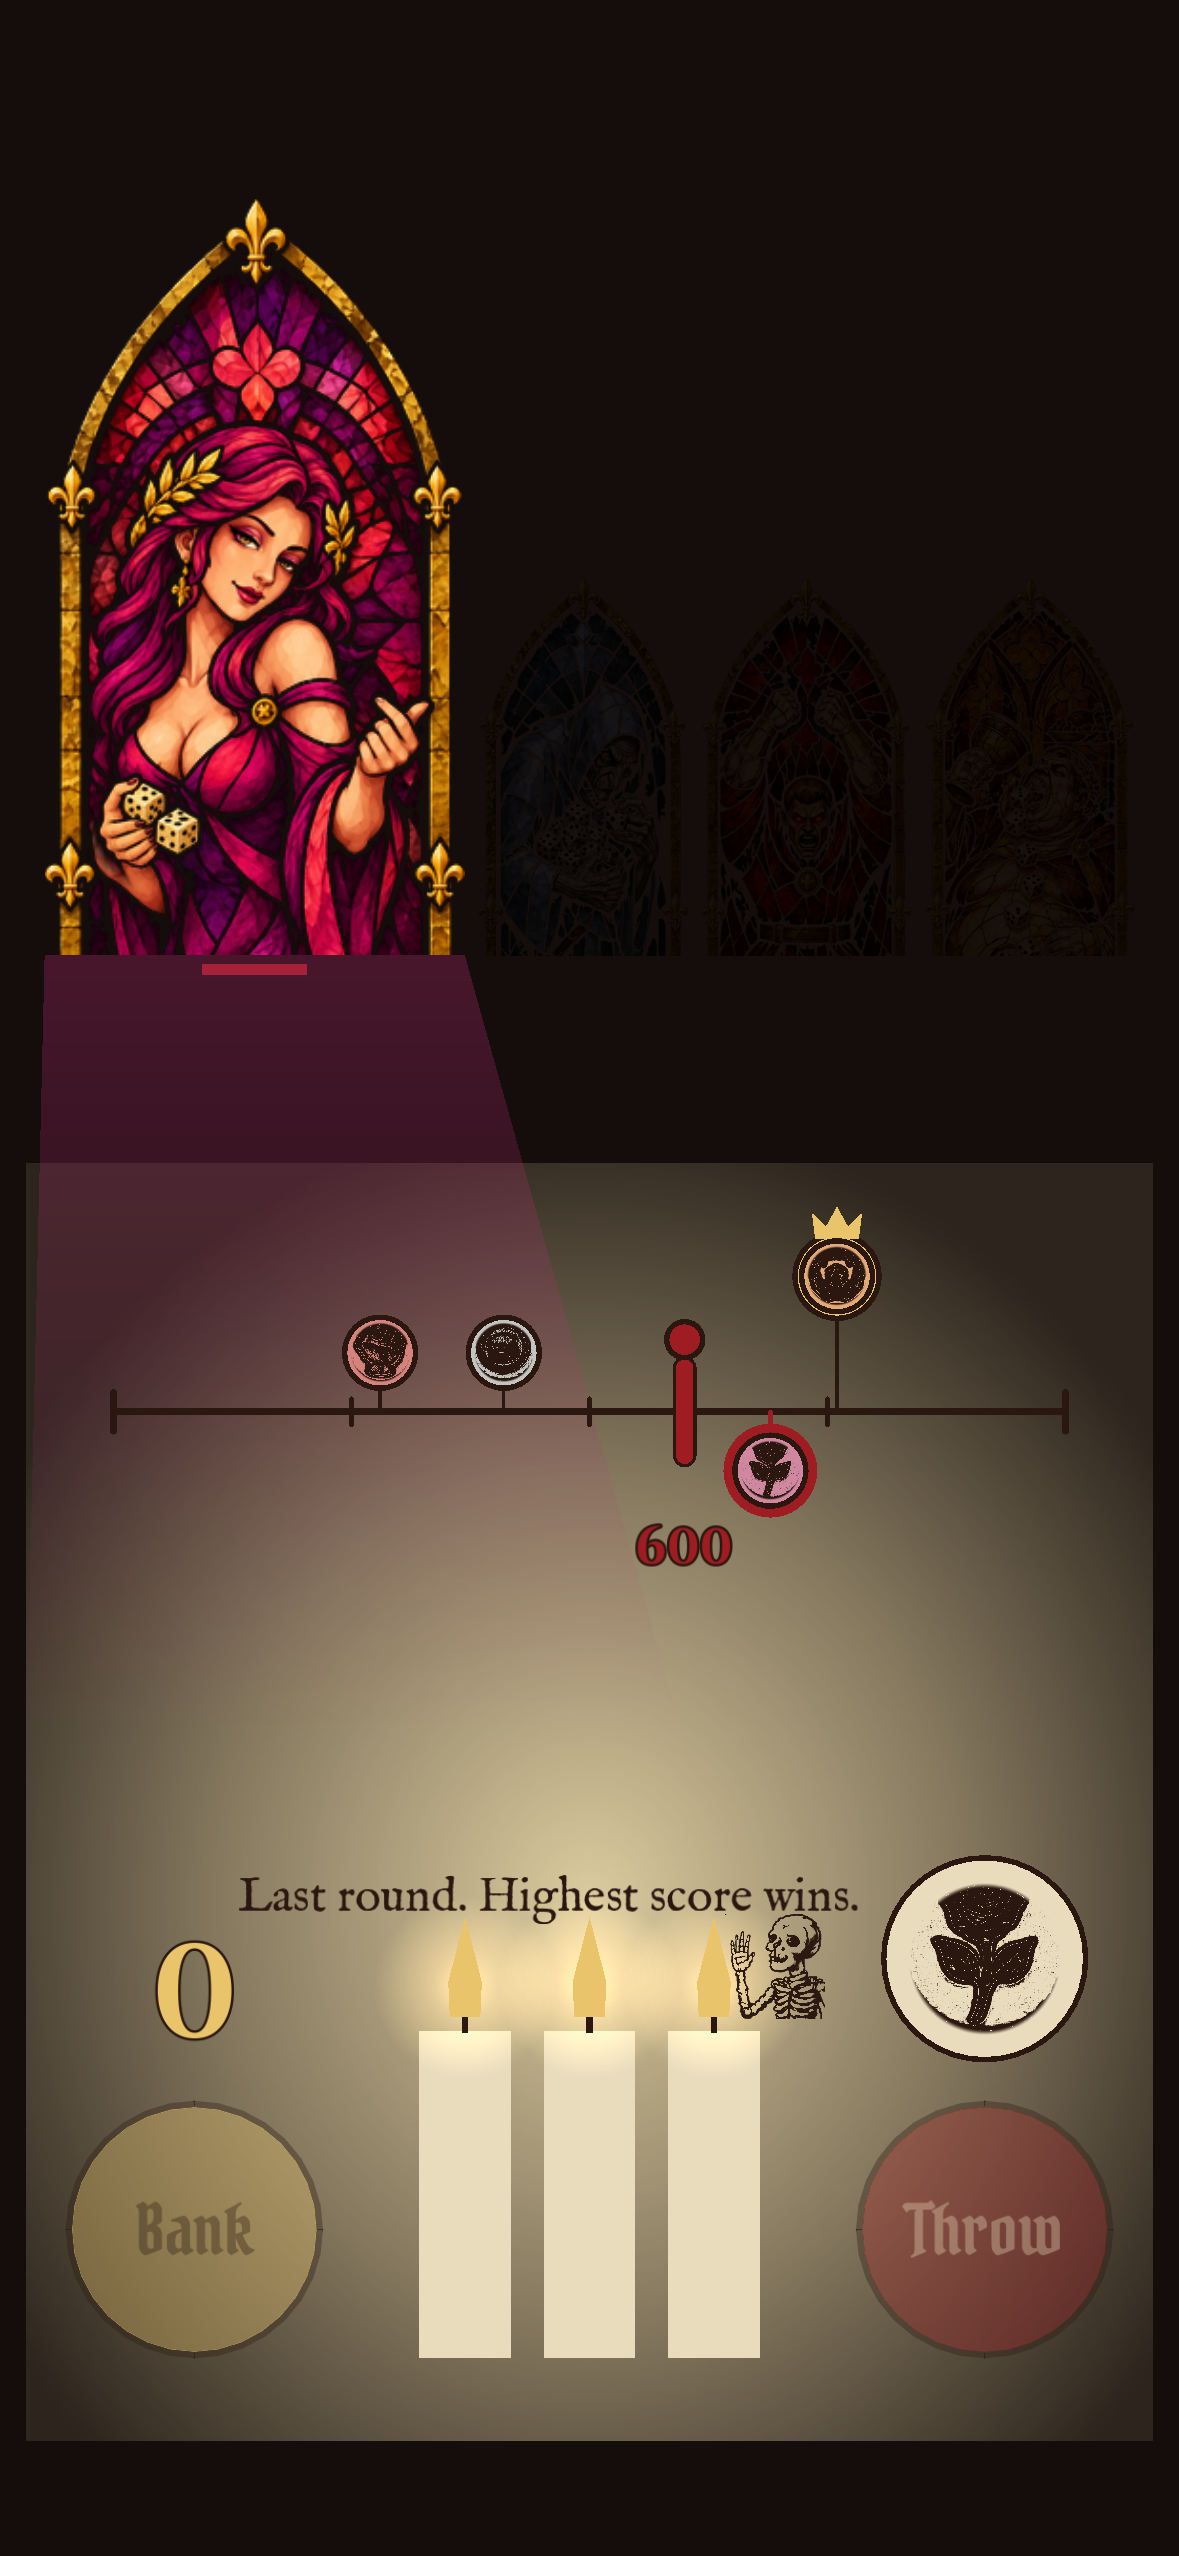
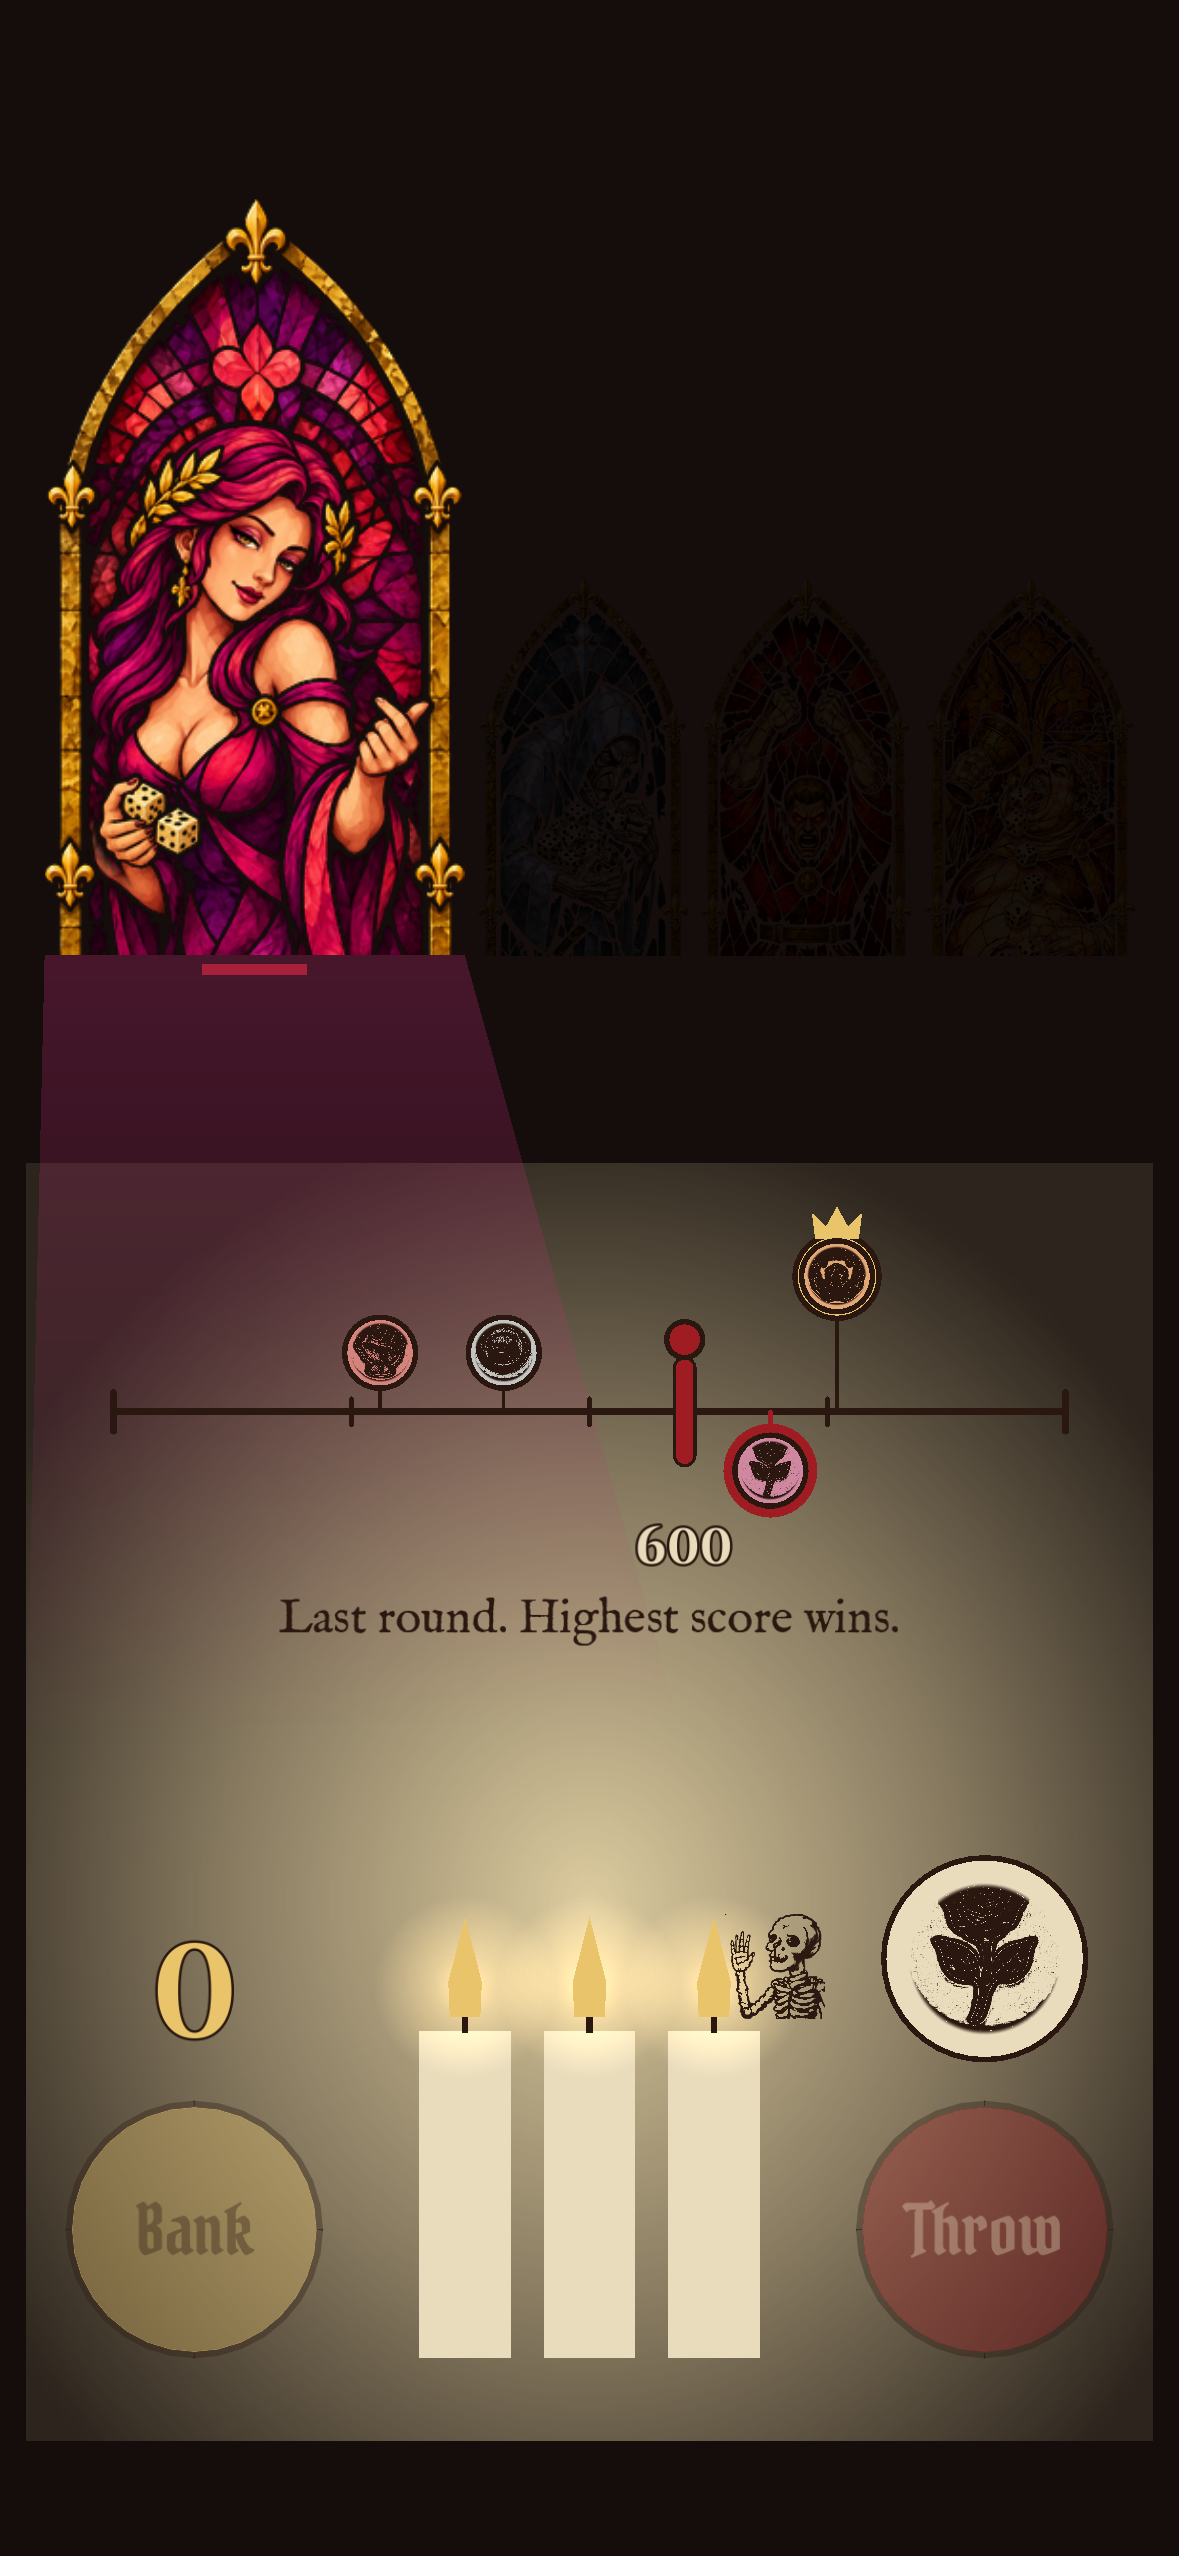
review: packet for REPLY 11 (buy ghosts, Master's line, post number, bots under the call, sim table; TestFlight 116); REPLY 10 packet archived

diff --git a/Docs/review/latest/packet.md b/Docs/review/latest/packet.md
@@ -1,23 +1,24 @@
-# Packet: REPLY 10 (call at 600, ready glow, buy screen, rival seal, swap sim)
-**Built (local, not pushed):** 2e19875 swap sim, plus the once-a-round fix (one offer a round for the whole table) · e617d98 ready halo, rival seal rim (bone once spent) · 7dcfb2b buy row in track order, ghosts hollow and faint, a line from each button to its ghost · cefdfd0 Master's call at 600 (table only, Rules.V5 unchanged).
-**Shots (std, full size, in this folder):** table_buy, table_buy_press, table_buy_many, table_power_ready, table_rival_seal_idle/_spent, table_master_post/_call/_final. `sheet.png` shows all nine side by side.
-**Text audit (std):** 7 of 9 clean. On _call and _final, the red "600" under the post has 2.1:1 contrast against its outline (4.5 needed).
-**Seen in the shots:** the buy tie lines cross the rival markers and the seat cone. The "600 reached" / "Last round" line runs over the candle flames and touches the skeleton. On _call, the post's pips touch the leader's stalk.
-**Swap sim** (seed 1; 20000 mixed games; 4000 per odd profile; Sin win % range; Envy; rounds; final margin):
-- base: 21.2-31.5 · Envy 31.5 · 4.53 rounds · margin 407
-- swap free, every turn: 16.0-48.9 · Envy 48.9 · 4.57 · 429
-- swap mark, every turn: 17.7-45.4 · Envy 45.4 · 4.70 · 423
-- swap free, once a round: 19.6-35.7 · Envy 35.7 · 4.53 · 413
-- swap mark, once a round: 20.0-34.9 · Envy 34.9 · 4.55 · 412
-- borrow (charges 3), once a round, for reference: 21.9-32.3 · Envy 32.3 · 4.12 · 468
-- Profiles barely move. Odd-seat Novice 18.4 base → 18.6-19.2, Forgetter 11.4 → 11.0-12.4, Banker 18.8 → 18.6-19.2.
-- Why: Envy's power copies a rival, so trading its seal away costs nothing, and every Envy pair tops the list (48-57%). Every other Sin loses 2-7 points.
-**Still open:** the Master's win line "{win}" still reads 1000. Under the call, ai/bot_policy.gd still plays to the WIN_SCORE 1000 heuristics (core/ai, needs your OK). run_all.sh reports a test as ok if it prints FAILED without a SCRIPT ERROR.
+# Packet: REPLY 11 (buy ghosts, Master's line, post number, bots under the call; pushed)
+**Built and pushed:** b779693 run_all fails a test on any FAILED line · 2c9478d buy ghost shows only while its button is held, no tie lines; the Master's line is centred above the dice band with a bone edge; the post's "600" is bone on ink · 5169ee6 under the call the Master's {win} reads the called target · 0afd5c9 under the call, bots drop the 1000 bank-to-win; behind in the penultimate round they chase half the gap; progress counts rounds left. TestFlight build 116 (run 43912590756) started from main.
+**Suite:** all 10 pass. **Text audit (std):** every table fixture is clean. The Master's line needed its bone edge to pass under a seat's cone of light (it was 3.9:1).
+**Sheet:** before and after, left to right: table_buy, table_buy_press, table_master_call, table_master_final. Full-size after shots are in this folder (plus table_buy_many and table_master).
+**Seen in the shots:** the "Buy none" press shows no ghost, by design (it leaves me where I am). Under the call, the Master's line sits below the "600", clear of the candles and the skeleton.
+**Profile sim** (seed 1, 20000 mixed; odd seats 4000 each):
+
+| | 1000, no call (REPLY 10) | call at 600, new bots |
+|---|---|---|
+| Sin range | 21.2-31.5 | 19.3-33.1 |
+| Envy / Greed overall | 31.5 / 25.1 | 33.1 / 32.1 |
+| Envy+Banker | 39.8 | 40.6 |
+| Greed+Banker | under 31.6 (not in the top six) | 41.5 |
+| Last seat entering the final round wins | 6.8% (559 behind) | 3.9% (769 behind) |
+| Rounds / final margin | 4.53 / 407 | 5.03 / 351 |
+| Comebacks (last at half wins) | 13.0% | 18.0% |
+| Odd seat: Novice / Banker / Forgetter | 18.4 / 18.8 / 11.4 | 19.5 / 22.6 / 12.2 |
+
+Note: the base table was run with REPLY 10's bots, but nothing changed for games without the call.
 
 **Questions**
-1. Swap: park it like the borrow? Rec: park. It only feeds Envy, and no profile gains.
-2. Buy tie lines cross rival markers: stop each line at the track instead of running it to the ghost? Rec: yes.
-3. Call text over the candles: move the Master's line up above the dice band? Rec: yes.
-4. "600" under the post: bone with a dark outline, to pass contrast? Rec: yes.
-5. Bots under the call: teach bot_policy to play to the called round, not 1000? Rec: yes, with your OK for ai/.
-6. Rival seal at rest (_idle): readable now without competing with the stake? Rec: judge it in play on TestFlight.
+1. Greed rises to 32% under the call (Greed+Banker 41.5), because banking steadily pays when the end is called. Should I sim Greed's Cash Out at x1.25 under the call (sim only)? Rec: yes.
+2. The last seat wins 3.9% from the final round: the gap at the call (769) is too big for one turn. Rec: accept it for the prototype and judge it in play.
+3. The "{win}. I'm genuinely impressed." line now says "600", even when the winner is far past it. Use the winner's score instead? Rec: yes.

diff --git a/Docs/review/archive/2026-11-16-reply10/packet.md b/Docs/review/archive/2026-11-16-reply10/packet.md
@@ -1,0 +1,23 @@
+# Packet: REPLY 10 (call at 600, ready glow, buy screen, rival seal, swap sim)
+**Built (local, not pushed):** 2e19875 swap sim, plus the once-a-round fix (one offer a round for the whole table) · e617d98 ready halo, rival seal rim (bone once spent) · 7dcfb2b buy row in track order, ghosts hollow and faint, a line from each button to its ghost · cefdfd0 Master's call at 600 (table only, Rules.V5 unchanged).
+**Shots (std, full size, in this folder):** table_buy, table_buy_press, table_buy_many, table_power_ready, table_rival_seal_idle/_spent, table_master_post/_call/_final. `sheet.png` shows all nine side by side.
+**Text audit (std):** 7 of 9 clean. On _call and _final, the red "600" under the post has 2.1:1 contrast against its outline (4.5 needed).
+**Seen in the shots:** the buy tie lines cross the rival markers and the seat cone. The "600 reached" / "Last round" line runs over the candle flames and touches the skeleton. On _call, the post's pips touch the leader's stalk.
+**Swap sim** (seed 1; 20000 mixed games; 4000 per odd profile; Sin win % range; Envy; rounds; final margin):
+- base: 21.2-31.5 · Envy 31.5 · 4.53 rounds · margin 407
+- swap free, every turn: 16.0-48.9 · Envy 48.9 · 4.57 · 429
+- swap mark, every turn: 17.7-45.4 · Envy 45.4 · 4.70 · 423
+- swap free, once a round: 19.6-35.7 · Envy 35.7 · 4.53 · 413
+- swap mark, once a round: 20.0-34.9 · Envy 34.9 · 4.55 · 412
+- borrow (charges 3), once a round, for reference: 21.9-32.3 · Envy 32.3 · 4.12 · 468
+- Profiles barely move. Odd-seat Novice 18.4 base → 18.6-19.2, Forgetter 11.4 → 11.0-12.4, Banker 18.8 → 18.6-19.2.
+- Why: Envy's power copies a rival, so trading its seal away costs nothing, and every Envy pair tops the list (48-57%). Every other Sin loses 2-7 points.
+**Still open:** the Master's win line "{win}" still reads 1000. Under the call, ai/bot_policy.gd still plays to the WIN_SCORE 1000 heuristics (core/ai, needs your OK). run_all.sh reports a test as ok if it prints FAILED without a SCRIPT ERROR.
+
+**Questions**
+1. Swap: park it like the borrow? Rec: park. It only feeds Envy, and no profile gains.
+2. Buy tie lines cross rival markers: stop each line at the track instead of running it to the ghost? Rec: yes.
+3. Call text over the candles: move the Master's line up above the dice band? Rec: yes.
+4. "600" under the post: bone with a dark outline, to pass contrast? Rec: yes.
+5. Bots under the call: teach bot_policy to play to the called round, not 1000? Rec: yes, with your OK for ai/.
+6. Rival seal at rest (_idle): readable now without competing with the stake? Rec: judge it in play on TestFlight.
